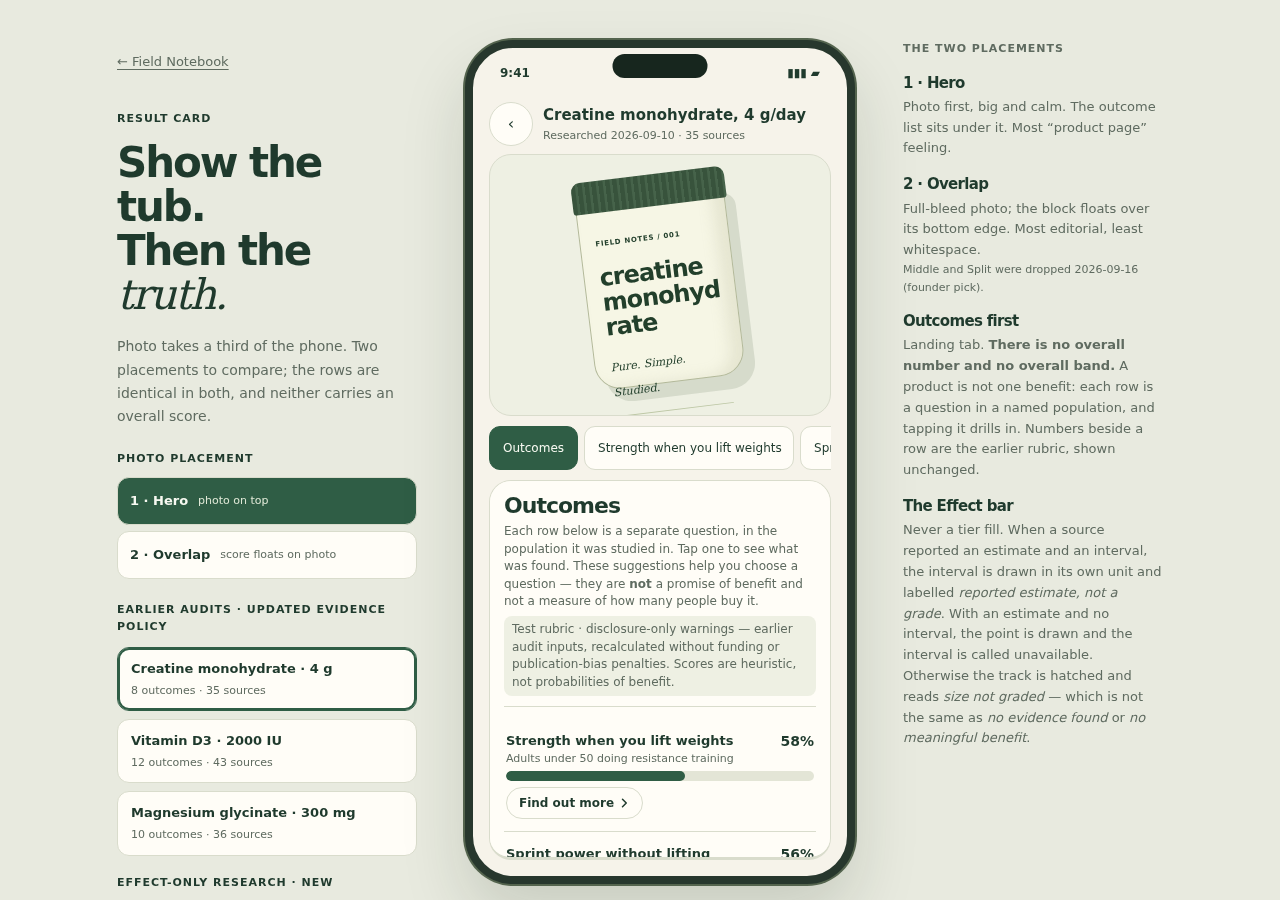
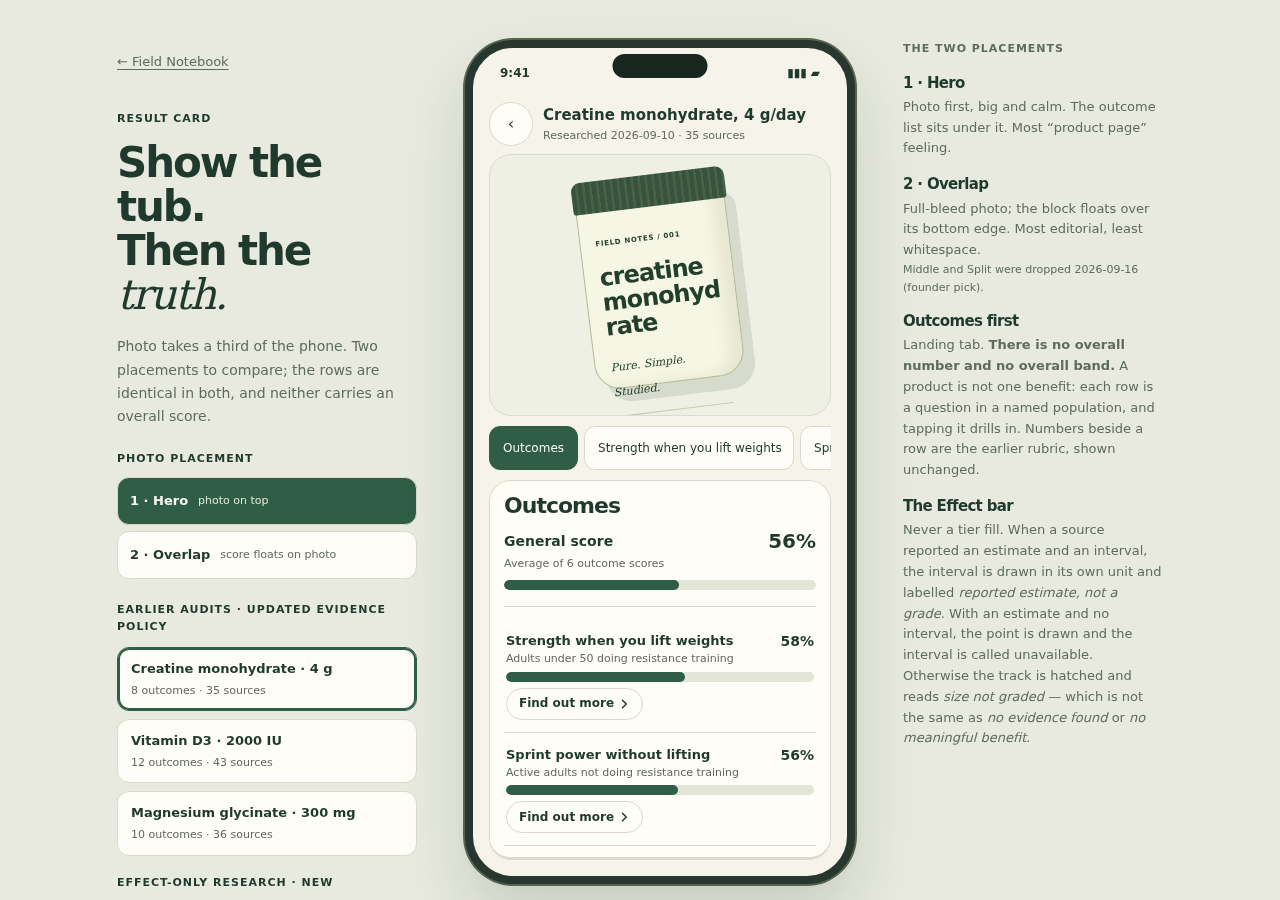
Preview: General score bar (mean of outcome scores) above the Outcomes list; drop the lab's explanatory lede
Founder decision 2026-09-16, reversing the 2026-09-11 no-overall-number rule. Labelled 'Average of N outcome scores', no band word. Applied to /scan Outcomes tab and design-lab A/B card; tests updated (437 pass), typecheck, lint 0 errors, build.

Changed region(s): [[0.375, 0.5911, 0.6562, 0.9644], [0.5938, 0.9333, 0.625, 0.9644]]

diff --git a/app/design-lab/ab/prototype.tsx b/app/design-lab/ab/prototype.tsx
@@ -288,12 +288,21 @@ export default function AbPrototype({ initial, publicTest = false }: AbPrototype
 
   /* THE LANDING TAB. No average, no overall number, no band label: a product is
    * not one benefit. Every row is a separate question in its own population. */
+  /* General score: plain mean of the picked outcomes' 0-100 headlines, drawn
+   * as a bar like every row below it. Labelled as an average so it never reads
+   * as a verdict about one person (founder decision 2026-09-16). */
+  const pickedHeadlines = scored.filter((x) => isPicked(x.o) && x.r && x.r.headline !== null).map((x) => x.r!.headline as number);
+  const general = pickedHeadlines.length ? Math.round(pickedHeadlines.reduce((a, b) => a + b, 0) / pickedHeadlines.length) : null;
   const listBlock = (
     <div className="ab-listhead">
       <h2>Outcomes</h2>
-      <p>Each row below is a separate question, in the population it was studied in. Tap one to see what was found. These suggestions help you choose a question — they are <b>not</b> a promise of benefit and not a measure of how many people buy it.</p>
-      {legacy && <p className="ab-stamp">{PREVIOUS_RUBRIC_LABEL} — earlier audit inputs, recalculated without funding or publication-bias penalties. Scores are heuristic, not probabilities of benefit.</p>}
-      {s.kind === "research" && <p className="ab-stamp">Effect-only research pass. No overall number, no certainty, form, dose or person score exists for this product.</p>}
+      <div className="ab-general" role="img" aria-label={general === null ? "General score: no scored outcomes" : `General score ${general}%, average of ${pickedHeadlines.length} outcome scores`}>
+        <span className="ab-general-head">
+          <span className="ab-general-name">General score<small>Average of {pickedHeadlines.length} outcome score{pickedHeadlines.length === 1 ? "" : "s"}</small></span>
+          <strong className="ab-general-pts">{general === null ? "\u2014" : `${general}%`}</strong>
+        </span>
+        <span className={`ab-bar-track${general === null ? " hatch" : ""}`}>{general !== null && <i style={{ width: `${general}%`, background: "var(--ab-r1)" }} />}</span>
+      </div>
     </div>
   );
   const detailBlock = cur ? (
@@ -364,10 +373,10 @@ export default function AbPrototype({ initial, publicTest = false }: AbPrototype
     </div>
   </main>;
 
-  return <main id="main-content" className="ab-stage"><aside className="ab-side"><a href="/design-lab/mobile">← Field Notebook</a><span className="ab-kicker">RESULT CARD</span><h1>Show the tub.<br />Then the <em>truth.</em></h1><p>Photo takes a third of the phone. Two placements to compare; the rows are identical in both, and neither carries an overall score.</p><span className="ab-kicker">PHOTO PLACEMENT</span><div className="ab-layouts" role="tablist" aria-label="Layout">{LAYOUTS.map((l) => <button key={l.id} role="tab" aria-selected={layout === l.id} onClick={() => { setLayout(l.id); setOpen(null); }}><b>{l.name}</b><small>{l.blurb}</small></button>)}</div><span className="ab-kicker">EARLIER AUDITS · UPDATED EVIDENCE POLICY</span><div className="ab-scenarios">{Object.entries(liveScenarios).map(([k, v]) => <button key={k} aria-pressed={key === k} onClick={() => pick(k)}>{v.title}<small>{v.outcomes.length} outcomes · {v.live?.sources} sources</small></button>)}</div><span className="ab-kicker">EFFECT-ONLY RESEARCH · NEW</span><div className="ab-scenarios">{Object.entries(researchScenarios).map(([k, v]) => <button key={k} aria-pressed={key === k} onClick={() => pick(k)}>{v.title}<small>{v.outcomes.length} outcomes · {v.research?.sources.length} sources · no score</small></button>)}</div>{profileRow}<span className="ab-kicker">WHAT THE USER PICKED</span><div className="ab-picks">{s.outcomes.map((o) => <label key={outcomeKey(o.name, o.population)}><input type="checkbox" checked={isPicked(o)} onChange={() => togglePick(o)} />{o.name}{o.population && <small>{o.population}</small>}</label>)}</div><details className="ab-provenance"><summary>Fictional test ledgers</summary><div className="ab-scenarios">{Object.entries(scenarios).map(([k, v]) => <button key={k} aria-pressed={key === k} onClick={() => pick(k)}>{v.title}<small>{v.product}</small></button>)}</div></details>{s.live ? <p className="ab-fine"><strong>Previous audit</strong> run {s.live.runAt} by {s.live.model}. Its effect text and sources are shown as written then and were <strong>not reverified</strong> in this pass; scores now exclude funding and publication-bias penalties. Model confidence: {s.live.confidence}. {s.live.doseNote}</p> : s.research ? <p className="ab-fine"><strong>Effect-only research pass</strong> {s.research.meta.run_at}, {s.research.meta.model}. {s.research.meta.note} <b>Reading rules:</b> {s.research.guards.join(" ")}</p> : <p className="ab-fine">Hand-written inputs to exercise the rubric; no search or model call produced this card. The numeric bars here are invented.</p>}</aside>
+  return <main id="main-content" className="ab-stage"><aside className="ab-side"><a href="/design-lab/mobile">← Field Notebook</a><span className="ab-kicker">RESULT CARD</span><h1>Show the tub.<br />Then the <em>truth.</em></h1><p>Photo takes a third of the phone. Two placements to compare; the rows are identical in both.</p><span className="ab-kicker">PHOTO PLACEMENT</span><div className="ab-layouts" role="tablist" aria-label="Layout">{LAYOUTS.map((l) => <button key={l.id} role="tab" aria-selected={layout === l.id} onClick={() => { setLayout(l.id); setOpen(null); }}><b>{l.name}</b><small>{l.blurb}</small></button>)}</div><span className="ab-kicker">EARLIER AUDITS · UPDATED EVIDENCE POLICY</span><div className="ab-scenarios">{Object.entries(liveScenarios).map(([k, v]) => <button key={k} aria-pressed={key === k} onClick={() => pick(k)}>{v.title}<small>{v.outcomes.length} outcomes · {v.live?.sources} sources</small></button>)}</div><span className="ab-kicker">EFFECT-ONLY RESEARCH · NEW</span><div className="ab-scenarios">{Object.entries(researchScenarios).map(([k, v]) => <button key={k} aria-pressed={key === k} onClick={() => pick(k)}>{v.title}<small>{v.outcomes.length} outcomes · {v.research?.sources.length} sources · no score</small></button>)}</div>{profileRow}<span className="ab-kicker">WHAT THE USER PICKED</span><div className="ab-picks">{s.outcomes.map((o) => <label key={outcomeKey(o.name, o.population)}><input type="checkbox" checked={isPicked(o)} onChange={() => togglePick(o)} />{o.name}{o.population && <small>{o.population}</small>}</label>)}</div><details className="ab-provenance"><summary>Fictional test ledgers</summary><div className="ab-scenarios">{Object.entries(scenarios).map(([k, v]) => <button key={k} aria-pressed={key === k} onClick={() => pick(k)}>{v.title}<small>{v.product}</small></button>)}</div></details>{s.live ? <p className="ab-fine"><strong>Previous audit</strong> run {s.live.runAt} by {s.live.model}. Its effect text and sources are shown as written then and were <strong>not reverified</strong> in this pass; scores now exclude funding and publication-bias penalties. Model confidence: {s.live.confidence}. {s.live.doseNote}</p> : s.research ? <p className="ab-fine"><strong>Effect-only research pass</strong> {s.research.meta.run_at}, {s.research.meta.model}. {s.research.meta.note} <b>Reading rules:</b> {s.research.guards.join(" ")}</p> : <p className="ab-fine">Hand-written inputs to exercise the rubric; no search or model call produced this card. The numeric bars here are invented.</p>}</aside>
   <div className="ab-phone"><div className="ab-status"><b>9:41</b><i /><span>▮▮▮ ▰</span></div><div className={`ab-screen layout-${layout}`}>
     {layout === "hero" && <>{header}{photo}{tabs}<section className="ab-card">{block}{warnings}{bars}{gates}</section></>}
     {layout === "overlap" && <>{photo}<div className="ab-overlap-wrap">{header}{block}</div>{tabs}{warnings}<section className="ab-card">{bars}{gates}</section></>}
   </div></div>
-  <aside className="ab-notes"><span className="ab-kicker">THE TWO PLACEMENTS</span><h3>1 · Hero</h3><p>Photo first, big and calm. The outcome list sits under it. Most “product page” feeling.</p><h3>2 · Overlap</h3><p>Full-bleed photo; the block floats over its bottom edge. Most editorial, least whitespace.</p><p className="ab-fine">Middle and Split were dropped 2026-09-16 (founder pick).</p><h3>Outcomes first</h3><p>Landing tab. <b>There is no overall number and no overall band.</b> A product is not one benefit: each row is a question in a named population, and tapping it drills in. Numbers beside a row are the earlier rubric, shown unchanged.</p><h3>The Effect bar</h3><p>Never a tier fill. When a source reported an estimate and an interval, the interval is drawn in its own unit and labelled <i>reported estimate, not a grade</i>. With an estimate and no interval, the point is drawn and the interval is called unavailable. Otherwise the track is hatched and reads <i>size not graded</i> — which is not the same as <i>no evidence found</i> or <i>no meaningful benefit</i>.</p></aside></main>;
+  <aside className="ab-notes"><span className="ab-kicker">THE TWO PLACEMENTS</span><h3>1 · Hero</h3><p>Photo first, big and calm. The outcome list sits under it. Most “product page” feeling.</p><h3>2 · Overlap</h3><p>Full-bleed photo; the block floats over its bottom edge. Most editorial, least whitespace.</p><p className="ab-fine">Middle and Split were dropped 2026-09-16 (founder pick).</p><h3>Outcomes first</h3><p>Landing tab. A <b>General score</b> bar sits on top: the plain mean of the outcome scores, labelled as an average and never given a band word (founder decision 2026-09-16; it replaces the 2026-09-11 “no overall number” rule). Each row is a question in a named population, drawn as a progress bar with its score as a percentage; <i>Find out more</i> opens that outcome’s tab.</p><h3>The Effect bar</h3><p>Never a tier fill. When a source reported an estimate and an interval, the interval is drawn in its own unit and labelled <i>reported estimate, not a grade</i>. With an estimate and no interval, the point is drawn and the interval is called unavailable. Otherwise the track is hatched and reads <i>size not graded</i> — which is not the same as <i>no evidence found</i> or <i>no meaningful benefit</i>.</p></aside></main>;
 }

diff --git a/tests/effect-presentation.test.ts b/tests/effect-presentation.test.ts
@@ -59,14 +59,23 @@ const barFor = (o: LegacyAudit["outcomes"][number]) => legacyEffectBar({
   strongestDoubt: o.strongest_doubt,
 });
 
-describe("the landing tab is Outcomes, and there is no overall number", () => {
+describe("the landing tab is Outcomes, headed by a general score that is labelled as a mean", () => {
   const markup = renderToStaticMarkup(createElement(AbPrototype, { initial: { product: "creatine" } }));
 
-  it("renders an Outcomes list, not an Overall average", () => {
+  /* Founder decision 2026-09-16: a general score returns above the list, as a
+   * bar, but it must say it is an average of the outcome scores -- never a
+   * verdict tile with a band word. */
+  it("renders an Outcomes list under a general score bar that names itself an average", () => {
     expect(markup).toContain("Outcomes");
-    expect(markup).not.toContain("Overall");
-    expect(markup).not.toMatch(/Average of the/);
-    expect(markup).not.toContain("ab-number"); // the big headline tile is gone from the landing tab
+    expect(markup).toContain("General score");
+    expect(markup).toMatch(/Average of \d+ outcome scores?/);
+    expect(markup).toContain('class="ab-general"');
+    expect(markup).not.toContain("ab-number"); // the big headline tile stays off the landing tab
+  });
+
+  it("rows are progress bars with a percentage and a 'Find out more' button, no band word", () => {
+    expect(markup).toContain("Find out more");
+    expect(markup).toMatch(/ab-bar-pts">\d+%</);
   });
 
   it("carries no overall band label", () => {
@@ -76,10 +85,8 @@ describe("the landing tab is Outcomes, and there is no overall number", () => {
     }
   });
 
-  it("qualifies every outcome row by its population and says suggestions are not a promise", () => {
+  it("qualifies every outcome row by its population", () => {
     expect(markup).toContain("Adults under 50 doing resistance training");
-    expect(markup).toContain("not a measure of how many people buy it");
-    expect(markup).toContain("Test rubric · disclosure-only warnings");
   });
 
   it("drops the product-level for-whom claim that implied one global benefit", () => {

diff --git a/components/scan-flow.tsx b/components/scan-flow.tsx
@@ -324,6 +324,25 @@ function OutcomeTabs({ rows }: { rows: EvidenceRow[] }) {
             </button>
           </>
         ) : (
+          <>
+            {(() => {
+              const scores = rows.map((r) => r.composite).filter((c): c is number => typeof c === "number");
+              const general = scores.length ? Math.round(scores.reduce((a, b) => a + b, 0) / scores.length) : null;
+              return (
+                <div className="sc-general" role="img" aria-label={general === null ? "General score: no scored outcomes" : `General score ${general}%, average of ${scores.length} outcome scores`}>
+                  <span className="sc-general-head">
+                    <span className="sc-general-name">
+                      <strong>General score</strong>
+                      <small>Average of {scores.length} outcome score{scores.length === 1 ? "" : "s"}</small>
+                    </span>
+                    <strong className="sc-general-pts">{general === null ? "\u2014" : `${general}%`}</strong>
+                  </span>
+                  <span className={`sc-outcome-row-track${general === null ? " sc-track-hatch" : ""}`} aria-hidden="true">
+                    <span className="sc-outcome-row-fill" style={{ width: `${general ?? 0}%` }} />
+                  </span>
+                </div>
+              );
+            })()}
           <ul className="sc-outcome-list" aria-label="Scored outcomes">
             {rows.map((row) => {
               const gated = row.composite === null;
@@ -341,6 +360,7 @@ function OutcomeTabs({ rows }: { rows: EvidenceRow[] }) {
               );
             })}
           </ul>
+          </>
         )}
       </div>
     </div>

diff --git a/tests/scan-result-state.test.tsx b/tests/scan-result-state.test.tsx
@@ -151,7 +151,7 @@ describe("/scan result state", () => {
     expect(el.querySelectorAll(".la-alert-warn").length).toBe(stack!.querySelectorAll(".la-alert-warn").length);
   });
 
-  it("outcome tabs: an Outcomes list lands first with no overall number; each other tab is one outcome", async () => {
+  it("outcome tabs: an Outcomes list lands first under a general (mean) score; each other tab is one outcome", async () => {
     mockFetch(fixture);
     const el = await mount();
     await scanPhoto(el);
@@ -164,8 +164,12 @@ describe("/scan result state", () => {
     const listRows = Array.from(el.querySelectorAll<HTMLButtonElement>(".sc-outcome-row"));
     expect(listRows).toHaveLength(fixture.evidence.rows.length);
     expect(el.querySelectorAll(".scan-evidence")).toHaveLength(0);
-    // No averaged "overall" score anywhere: every number shown belongs to a named outcome.
-    expect(el.textContent).not.toMatch(/overall/i);
+    // The general score is the plain mean of the outcome composites and says so.
+    const composites = fixture.evidence.rows.map((r) => r.composite).filter((c): c is number => typeof c === "number");
+    const mean = Math.round(composites.reduce((a, b) => a + b, 0) / composites.length);
+    const general = el.querySelector(".sc-general");
+    expect(general?.textContent).toContain(`${mean}%`);
+    expect(general?.textContent).toContain(`Average of ${composites.length} outcome scores`);
 
     // Tapping a row opens that outcome's tab with exactly one card.
     await act(async () => listRows[1].click());

diff --git a/app/globals.css b/app/globals.css
@@ -1345,3 +1345,13 @@ body:has(.scan-page) .footer-inner p:last-child { display: none; }
   justify-self: start; min-height: 44px; padding: 0 14px; border: 1px solid var(--sp-line); border-radius: 999px;
   background: var(--sp-white); color: var(--sp-ink); font: inherit; font-size: var(--fs-1); font-weight: 600; cursor: pointer;
 }
+
+/* General score above the Outcomes list: mean of outcome composites, drawn as a bar. */
+.scan-page .sc-general { display: grid; gap: 10px; padding: 14px; border: 1px solid var(--sp-line); border-radius: 14px; background: var(--sp-white); }
+.scan-page .sc-general-head { display: flex; justify-content: space-between; align-items: flex-start; gap: 12px; }
+.scan-page .sc-general-name { display: grid; gap: 2px; }
+.scan-page .sc-general-name strong { font-size: var(--fs-3); font-weight: 600; }
+.scan-page .sc-general-name small { font-size: var(--fs-1); color: var(--sp-mute); }
+.scan-page .sc-general-pts { font-size: var(--fs-5); font-weight: 700; letter-spacing: -0.03em; line-height: 1; font-variant-numeric: tabular-nums; }
+.scan-page .sc-general .sc-outcome-row-track { grid-column: auto; grid-row: auto; }
+.scan-page .sc-track-hatch { background: repeating-linear-gradient(135deg, var(--sp-tint) 0 5px, transparent 5px 9px); border: 1px dashed var(--sp-line); }

diff --git a/app/design-lab/ab/ab.css b/app/design-lab/ab/ab.css
@@ -90,6 +90,12 @@ body:has(.ab-stage)>.site-header,body:has(.ab-stage)>.site-footer{display:none}
 .ab-listhead{display:grid;gap:6px;padding:0 0 10px;border-bottom:1px solid var(--ab-line);margin-bottom:4px}
 .ab-listhead h2{font-size:22px}
 .ab-listhead p{font-size:12px;line-height:1.45;color:var(--ab-muted)}
+.ab-general{display:grid;gap:8px;padding:8px 0 6px}
+.ab-general-head{display:flex;justify-content:space-between;align-items:flex-start;gap:12px}
+.ab-general-name{font-weight:650;font-size:14px;display:grid;gap:2px}
+.ab-general-name small{font-weight:500;font-size:11px;color:var(--ab-muted)}
+.ab-general-pts{font-size:20px;font-variant-numeric:tabular-nums;line-height:1}
+.ab-general .ab-bar-track{grid-column:auto;grid-row:auto}
 .ab-stamp{font-size:11px;line-height:1.4;color:var(--ab-muted);background:var(--ab-soft);border-radius:8px;padding:5px 8px}
 .ab-pop{font-size:11.5px;line-height:1.35;color:var(--ab-muted);margin-bottom:4px}
 .ab-headline .ab-stamp{margin-top:6px}

diff --git a/docs/design/2026-09-16-scan-design-system.md b/docs/design/2026-09-16-scan-design-system.md
@@ -285,3 +285,12 @@ opens that outcome's tab and moves focus to the panel; `← All outcomes` return
 WAI-ARIA tablist/tab/tabpanel with arrow/Home/End keys; strip scrolls
 horizontally on phones; 44 px targets. Result height @390: 4253 px (was 5227
 with all cards stacked). Screenshots: `docs/design/ref/tabs-preview/`.
+
+### Outcomes list, revised (founder, 2026-09-16 evening)
+Rows are progress bars: name, score as a percentage, bar filled to it, and a
+`Find out more ›` button opening that outcome's tab. The verdict word is gone
+from the list (bar + number carry it). Above the list sits a **General score**
+bar — the plain mean of the outcome composites, labelled "Average of N outcome
+scores". This reverses the 2026-09-11 "no overall number" rule by founder
+decision; the label is the guard against reading it as a verdict. Same
+treatment in `app/design-lab/ab` (Hero + Overlap layouts only).
